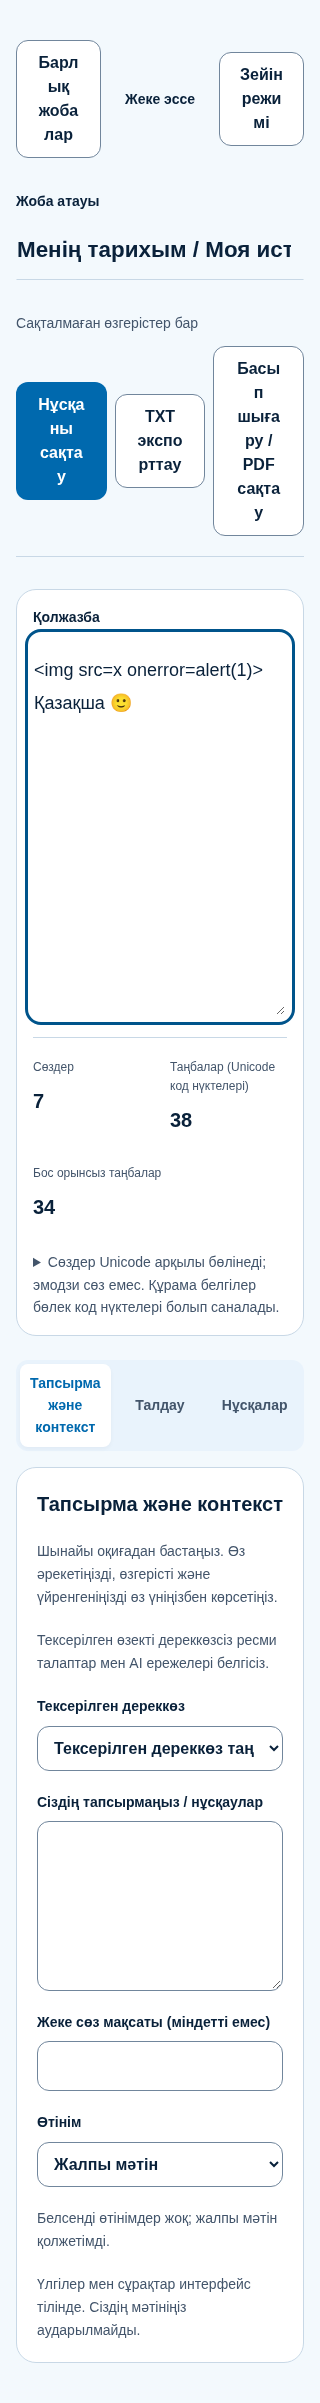
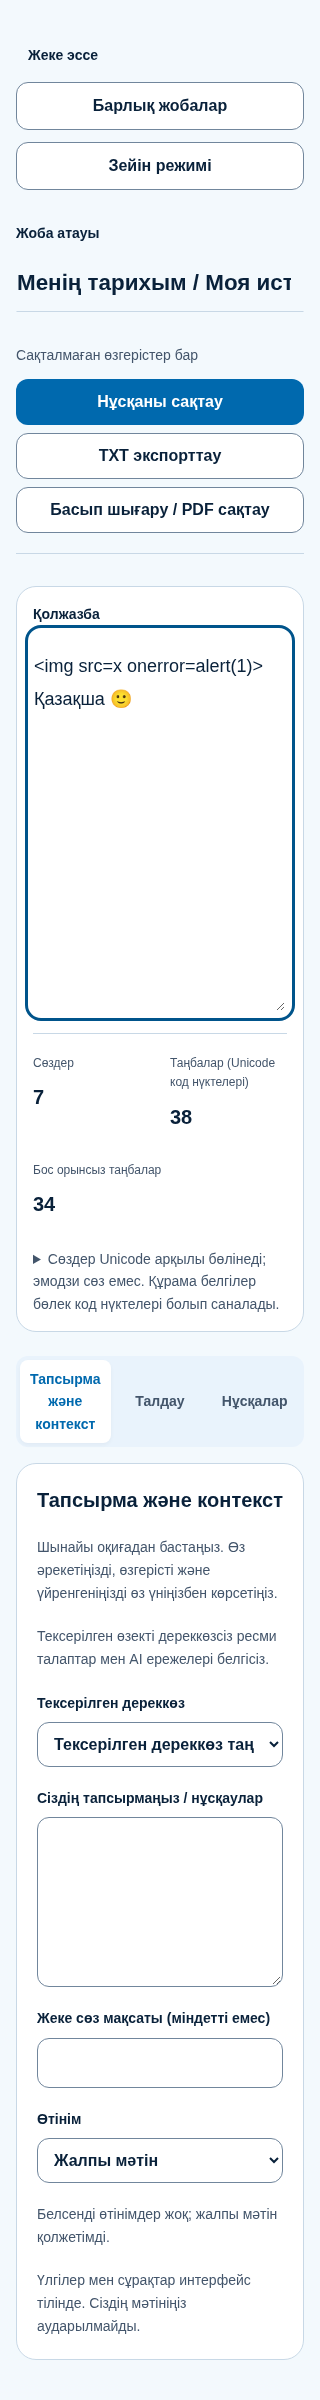
fix(writing): improve phone controls and record verified phase evidence

diff --git a/src/styles/writing-studio.css b/src/styles/writing-studio.css
@@ -614,3 +614,28 @@
 .studio-editor textarea {
   font-weight: 400;
 }
+@media (max-width: 480px) {
+  .studio-editor-heading {
+    display: grid;
+    grid-template-columns: minmax(0, 1fr);
+    align-items: stretch;
+  }
+  .studio-editor-heading .ui-badge {
+    order: -1;
+    justify-self: start;
+    margin-right: 0;
+  }
+  .studio-editor-heading .ui-button {
+    width: 100%;
+  }
+  .studio-savebar .studio-actions {
+    display: grid;
+    grid-template-columns: minmax(0, 1fr);
+    width: 100%;
+  }
+  .studio-savebar .ui-button {
+    width: 100%;
+    overflow-wrap: normal;
+    word-break: normal;
+  }
+}

diff --git a/docs/PHASE_21_TEST_EVIDENCE.md b/docs/PHASE_21_TEST_EVIDENCE.md
@@ -1,51 +1,102 @@
-# Phase 21 evidence — in progress, 2026-11-05
+# Phase 21 evidence — 2026-11-05
 
-Status: PARTIAL. Feature branch `codex/phase21-writing-studio`, base `5c30fe0`.
+**PARTIAL.** PR: https://github.com/roadtoabroad346-commits/JETU/pull/11 . Branch:
+`codex/phase21-writing-studio`, based on published main `5c30fe0`. No merge or
+production promotion; Phase 22/24 remain separate. The current head and current
+exact-commit CI/preview checks are available in the PR.
 
-- `npm run check` passed formatting/lint/strict types/142 unit-integration/build at
-  the first integration checkpoint. Final changed-tree gate still required.
-- Eight new component browser scenarios passed using mocked API responses, including
-  acknowledged autosave/reload, retry UUID, conflict fork, checkpoints/diff/restore,
-  stale anchored comments, CV/TXT, ephemeral text interview, XSS text rendering,
-  RU/KK/EN at 320/768/1440, reduced motion and axe. This is UI evidence, not Auth/RLS.
-- Disposable PostgreSQL 16.2 replayed all 44 migrations with synthetic provider
-  Auth/Storage schemas. Five pgTAP suites passed 96 assertions (30 new Writing
-  assertions). Test identities roll back; no real student content was accessed.
-- Database types generated from that actual database using pinned CLI 2.121.0.
-  Diff is additive: 164 lines for new fields/tables/function.
-- Production dependency audit: zero vulnerabilities.
-- Supabase Docker database startup did not complete after repeated image pull
-  failures/retries; stopped that attempt. Native local PostgreSQL is explicitly
-  a fallback and does not prove local GoTrue, REST, Storage or hosted login.
+## Delivered / exercised
 
-Remaining: final check/browser run after fixes; exact CI migration/types checks;
-real two-account authenticated browser acceptance; live AI provider; official
-current-cycle prompt curation; isolated staging schema/preview verification.
-Production-connected Jetuu was inspected read-only and not migrated.
+Existing Phase 19 writing authority now supports private project creation,
+rename, duplication, archive/reopen, acknowledged debounced autosave, uncertain
+request replay, optimistic concurrency, checkpoint compare and restore into a new
+version. RU/KK/EN editor has source-vs-personal constraints, Unicode counters,
+local anchored feedback with explicit accept/dismiss/undo and stale markers,
+student self-review, structured CV/activities with reorder/preview/TXT/browser-PDF,
+generic text interviews with opt-in history and real-data dashboard continuation.
+See WRITING_STUDIO_ARCHITECTURE.md for limits and permissions.
 
-## Preview / synchronization checkpoint
+## Command evidence
 
-Draft PR #11: https://github.com/roadtoabroad346-commits/JETU/pull/11.
-Implementation `06df845e8f47f956e625902e575bf8a5c2f581ec` pushed and remote SHA checked.
-Primary preview `dpl_2oU5DX73Mr4YGREh4ckHC2iiKhYc` is READY:
-https://jetu-7ztultyx7-impact-hub.vercel.app . Protected MCP smoke: health 200;
-English writing resolves to the real sign-in form with private no-store caching;
-writing API returns a truthful 503 PROVIDER_NOT_CONFIGURED. The preview lacks its
-own configured Supabase integration; this is not a working signed-in Studio release.
-Production-connected Jetuu `edpuovkgoisyzpguksdi` remains read-only/unmodified.
+- `npm run check`: PASS, formatting/lint/strict types, **142 unit/integration**
+  tests, production build. Final source gate ran sequentially before production E2E.
+- `PLAYWRIGHT_CHROMIUM_EXECUTABLE_PATH=/usr/bin/chromium npm run test:e2e`:
+  **88 passed, 4 skipped**, no failures. The four inherited dashboard/matching
+  cases require configured Supabase; they are not claimed as authenticated proof.
+  Eight new production-browser cases verify private writing login and API failure
+  contracts across desktop/mobile.
+- `PLAYWRIGHT_CHROMIUM_EXECUTABLE_PATH=/usr/bin/chromium npm run test:journey-ui`:
+  **14 passed**, including eight new Writing scenarios and six existing account/
+  profile scenarios. Writing API responses are mocked in this suite; no Auth/RLS
+  acceptance is inferred. It covers save acknowledgements, retry UUID, conflict
+  fork, versions/restore, stale comments, CV/TXT/PDF, interview opt-in, plain-text
+  XSS payloads, RU/KK/EN at 320/768/1440, reduced motion and axe.
+- `npm audit --omit=dev --audit-level=high`: **0 vulnerabilities**. Full CI audit
+  at high severity passes; inherited moderate development findings are not claimed
+  resolved by Phase 21.
+- `git diff --check`: PASS. No package/dependency or lockfile changes.
 
-Initial exact-head CI run 42055661186 exposed Next internal-host normalization:
-a valid local same-origin write was rejected with 403 before authentication. The
-server now compares browser-facing Host, exact protocol and port, rejects malformed
-Origin paths/credentials, and never trusts forwarded headers. Fourteen targeted
-API adapter tests and eight targeted production-browser writing tests pass after
-that repair. A fresh whole-tree CI run is required on the fixed commit.
+## Database and security
 
-One local E2E attempt was invalidated by concurrent writes to `.next`; it was stopped.
-Subsequent production checks run sequentially. No invalidated run is claimed as proof.
+Disposable PostgreSQL 16.2 with synthetic provider schemas replayed all 44
+migrations and passed five pgTAP suites / **96 assertions**, including 30 new
+Writing tests. These establish actual SQL command/CAS/receipt behavior, immutable
+history, anonymous/cross-owner/claimed-mentor denial, private receipts, unknown/
+expired prompt denial and continued saving with existing expired context. All
+synthetic identities roll back; no real student content was inspected.
 
-PDF evidence opens as one page; `pdftotext` and PyMuPDF recover the Kazakh text.
-`local-domain-performance.json` records 12 samples on a 95,000-byte synthetic draft:
-count median 17.30ms/max 103.41ms, changed-range median 8.48ms/max 47.63ms. These are
-local CPU observations under test load, not browser typing, web vitals, hosted query
-latency, improvements against a baseline or service guarantees.
+Pinned CLI 2.121.0 generated types from that actual local database: additive 164
+lines. CI run https://github.com/roadtoabroad346-commits/JETU/actions/runs/42055661186
+confirmed the database job with two clean Supabase replays and **96 pgTAP assertions
+per replay**, advisors and exact generated-type drift passing. Its frontend exposed
+an Origin defect, subsequently repaired. On fixed source commit
+`0216c80296744b43e9560c5e061e28b3eacb61d1`, both frontend and database jobs PASS:
+https://github.com/roadtoabroad346-commits/JETU/actions/runs/42056457543 .
+
+The local Supabase Docker image pull never completed successfully and was stopped.
+Native PostgreSQL is a fallback; hosted GoTrue/REST/Storage and real two-account
+Auth/browser/device journeys remain unverified. Mentor sharing is unavailable;
+no grant or revoked-grant workflow is claimed. All writing access stays owner-only.
+
+## UI, export and performance
+
+Synthetic screenshots/PDF under `docs/evidence/phase21/` contain no student data.
+Desktop and Kazakh 320px images were actually inspected. The before/after phone
+images show a detected defect: long Kazakh button labels fragmented into syllables.
+The final mobile action layout stacks full-width controls, then passed the 14-case
+UI suite. Light-only contract; no dark-mode or physical-device claim.
+
+The exported PDF opens as one page. `pdftotext` and PyMuPDF recover the Kazakh text;
+TXT export contents were read by the browser test. PDF uses browser print, not a
+server generation job; DOCX, tagged-PDF accessibility and physical printers are not
+verified. Local domain performance records 12 samples on a 95,000-byte draft:
+count median 17.30ms/max 103.41ms; changed-range median 8.48ms/max 47.63ms. This is
+local CPU timing under test load, not browser typing, web vitals, hosted DB latency,
+an improvement against a measured baseline or a service guarantee.
+
+## Preview and external blockers
+
+Fixed-source preview `dpl_5toEEfHxn96XD9f1Rnz4jyxzQFxk` is READY:
+https://jetu-narmpvsj2-impact-hub.vercel.app . Protected Vercel MCP smoke: health
+200; English Writing resolves to real login, private no-store, no editor data.
+The primary preview has no Supabase configuration and its private API returns
+503 PROVIDER_NOT_CONFIGURED. This is build/degraded-mode evidence, not a working
+signed-in Studio release. Latest cosmetic/docs pushes receive new preview URLs in
+PR checks; use the matching commit when reviewing.
+
+Jetuu `edpuovkgoisyzpguksdi` was inspected read-only and remains unmodified at its
+43-migration head `20261029143849`. It is production-connected. New additive
+migration `20261105145755_phase_21_writing_studio.sql` was **not** applied remotely.
+An explicitly selected isolated staging DB must receive it before integrated testing.
+
+No AI gateway source or configured provider was found on recovered branches. AI is
+visibly unavailable; no writing is sent externally and no fake review is returned.
+A real provider adapter/live feedback, reviewed current-cycle official prompts,
+application/Roadmap populated journeys, real authenticated two-account acceptance
+and isolated staging verification remain release blockers. No phase is relabelled
+VERIFIED to hide them.
+
+One local E2E attempt was stopped after concurrent `.next` builds invalidated it.
+Checks subsequently ran sequentially. The Origin failure was fixed using browser-
+facing Host plus exact protocol/port; a normalization regression test and real
+production-browser checks pass. Invalidated/failed attempts are not passing evidence.

diff --git a/docs/PHASE_21_EXECUTION_PLAN.md b/docs/PHASE_21_EXECUTION_PLAN.md
@@ -8,7 +8,7 @@ Owner: Codex. Scope: Phase 21 only; Phase 22/24 remain separate.
 - [x] Implement localized Studio, deterministic anchored feedback, CV/activities and private text interview.
 - [x] Integrate real draft continuation with dashboard; preserve current account/profile UI.
 - [x] Verify units, API failures, SQL isolation, browser autosave/conflict/recovery, accessibility and build.
-- [ ] Commit, feature-branch PR/CI, generated types, preview and honest handoff.
+- [x] Commit, feature-branch PR/CI, generated types, preview and honest handoff.
 
 Evidence: main is current; later application code lives in draft PR #7 (1114700).
 Import only needed writing contracts, not unrelated roadmap/admin/vault UI. Existing
@@ -21,5 +21,7 @@ UI/UX Pro Max cloud instructions and canonical JETU design contract read. Search
 script is not installed in workspace; use documented accessibility/design defaults.
 Supabase changelog HTTP CONNECT 403; current RLS/functions docs consulted via MCP.
 
-Checkpoint: 141 units/integration; eight new UI cases; 96 local PostgreSQL
-assertions. Final CI, full production-browser rerun and preview remain in progress.
+Checkpoint: 142 unit/integration; 88 production browser cases (four inherited
+Auth skips); 14 component UI cases; 96 SQL assertions in two CI Supabase replays.
+Fixed-source CI is green; draft PR #11 and READY preview exist. See the test evidence
+for exact commits/runs/URLs and the independent hosted/AI/staging release blockers.

diff --git a/docs/NEXT_AGENT_PROMPT.md b/docs/NEXT_AGENT_PROMPT.md
@@ -6,8 +6,9 @@ Phase 21 is PARTIAL on `codex/phase21-writing-studio`, based on published main
 17–19 code exists in draft PR #7; only its existing SQL authority is reused here.
 Do not replace current profile/account work or import the entire old branch.
 
-Current stop: final security/browser/CI and preview verification, then record the
-actual SHA, PR, URL and blocked hosted gates. New additive migration is
+Current stop: implementation and local checks complete; fixed-source CI green,
+draft PR #11 and READY preview recorded in PHASE_21_TEST_EVIDENCE.md. Keep PARTIAL:
+preview has no Supabase config; hosted AI/Auth and isolated staging gates remain. New additive migration is
 `20261105145755_phase_21_writing_studio.sql`; types were generated from actual
 local PostgreSQL with the pinned Supabase CLI. No Jetuu cloud migration performed.
 Phase 20 source/provider is absent: AI is visibly unavailable, with no external
